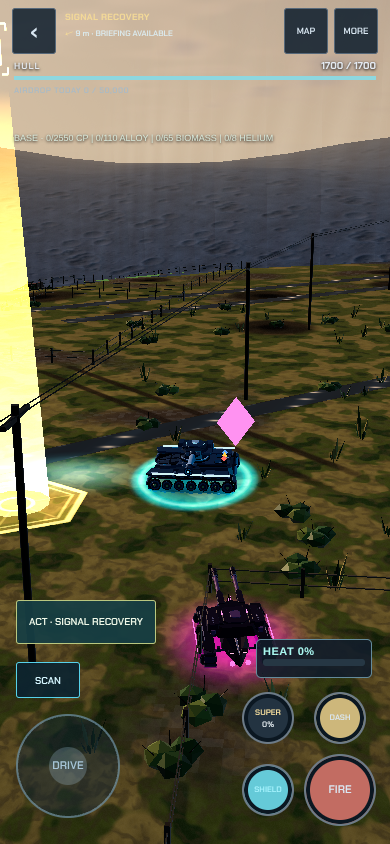
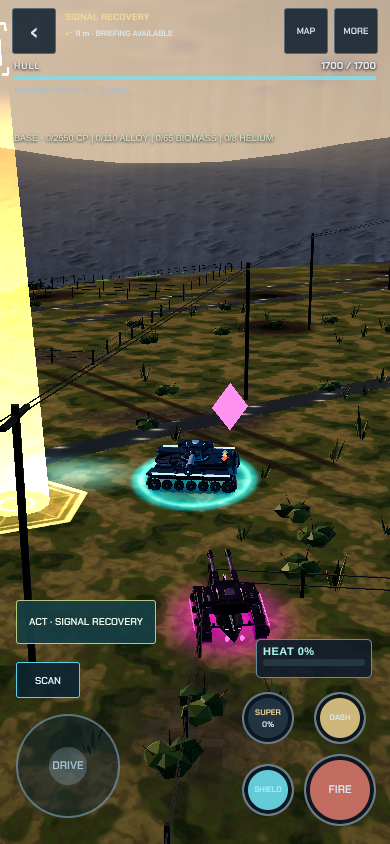
feat(conquest): settler identity on the colony kit — weathered painted, patched materials and warm amber lights (military keeps cyan)
Civilian town and farm buildings, streets and the monorail get settler materials and amber
lighting; the Refuge, Command Bases and the frontier wall keep the military Neon Frontline.
Full settler architecture is queued for session 5 (docs/ROADMAP.md). Captures refreshed.

Claude-Session: https://claude.ai/code/session_014ynx7uupq1wCG5hfVD7SVy

diff --git a/js/conquest/style.js b/js/conquest/style.js
@@ -544,8 +544,13 @@ const billGeo=(r,col,o=0)=>{const X=new Fx();X.keep=true;X.bill(0,0,0,1,r,col,o)
   const dist=l=>l.k==='wall'||l.k==='watch'||l.k==='gate'?'wall':['greenhouse','silo','turbine','solar'].includes(l.k)?'farm':'core';
   const R=(l,x,y,z)=>{const c=Math.cos(l.r),s=Math.sin(l.r);return [l.x+x*c-z*s,y,l.z+x*s+z*c];};
   const barrel=(B,l,y0,len,rad,col,em=0)=>{const [wx,,wz]=R(l,0,0,0);B.add(G.cylC,M(wx,y0,wz,0,-l.r,Math.PI/2,rad,len,rad),col,em);};   // a vault lying along the lot's length
-  for(const l of CO.lots){const D=districts[dist(l)],B=D.m,Dt=D.d,y0=ground(l.x,l.z)-.15,ry=-l.r,at=(x,y,z,rx,sx,sy,sz,ryy=0)=>{const [wx,wy,wz]=R(l,x,y,z);return M(wx,y0+wy,wz,rx,ry+ryy,0,sx,sy,sz);},w=l.w,d=l.d,h=l.h;
+  // Settlers (owner, Nov 8): civilian towns and farms wear weathered, painted, patched materials with warm amber lights; the
+  // military (Refuge, Command Bases, frontier wall) keeps the cyan armoured Neon Frontline. Full settler architecture: session 5.
+  const amberC=lin(0xffa84a),PAINT=[lin(0xa88a5a),lin(0x8a4a32),lin(0x5f8a86),lin(0xc9c2b0),lin(0x7a6a52),lin(0x9a5a3a)],panelM=panel,whiteM=white,roofM=roof,patchC=[lin(0x5a5248),lin(0x8a8070),lin(0x6a3a2a)];
+  for(const l of CO.lots){const settler=dist(l)!=='wall',hh=Math.abs(Math.round(l.x*7+l.z*13)),cy=settler?amberC:K.cyan,panel=settler?PAINT[hh%PAINT.length]:panelM,white=settler?PAINT[(hh+3)%PAINT.length]:whiteM,roof=settler?lin(0x4a3e34):roofM;
+   const D=districts[dist(l)],B=D.m,Dt=D.d,y0=ground(l.x,l.z)-.15,ry=-l.r,at=(x,y,z,rx,sx,sy,sz,ryy=0)=>{const [wx,wy,wz]=R(l,x,y,z);return M(wx,y0+wy,wz,rx,ry+ryy,0,sx,sy,sz);},w=l.w,d=l.d,h=l.h;
    if(l.k!=='pad'&&l.k!=='wall')B.add(G.box,at(0,-2,0,0,w+.6,4,d+.6),conc);                      // foundation plinth
+   if(settler&&['hab','block','shop','hangar','silo'].includes(l.k))Dt.add(G.box,at(w*(.12-(hh%3)*.12),h*(.3+(hh%4)*.08),d/2+.06,0,w*.26,h*.18,.08),patchC[hh%3]);   // scrap-repair patch
    if(l.k==='hab'){B.add(G.hex,at(0,0,0,0,w*.48,h*.7,d*.48),panel);B.add(G.hexF(.8),at(0,h*.7,0,0,w*.48,h*.3,d*.48),roof);B.add(G.hex,at(0,h*.38,0,0,w*.49,.6,d*.49),warm,.75);Dt.add(G.hex,at(0,h*.7,0,0,w*.5,.18,d*.5),cy,1.2);}
    else if(l.k==='block'){B.add(G.box,at(0,h/2,0,0,w,h,d),white);for(let k=1;k<4;k++)B.add(G.box,at(0,h*k/4,0,0,w+.05,.5,d+.05),warm,.7);B.add(G.box,at(0,h+.4,0,0,w*.5,.8,d*.4),roof);for(const sx of [-1,1])Dt.add(G.box,at(sx*w/2,h/2,d/2,0,.2,h,.2),cy,1.2);}
    else if(l.k==='shop'){B.add(G.box,at(0,2,0,0,w,4,d),panel);B.add(G.box,at(0,1.4,d/2,0,w*.86,2.4,.1),warm,.8);B.add(G.box,at(0,3.9,d/2+.9,0,w+.4,.25,2),[mag,cy,lin(0xffb347)][Math.abs(Math.round(l.x+l.z))%3]);Dt.add(G.box,at(0,4.7,d/2+.1,0,w*.55,.8,.15),[cy,mag,warm][Math.abs(Math.round(l.x))%3],1.4);}
@@ -561,7 +566,7 @@ const billGeo=(r,col,o=0)=>{const X=new Fx();X.keep=true;X.bill(0,0,0,1,r,col,o)
    else if(l.k==='gate'){B.add(G.box,at(0,h/2,0,0,w*.5,h,d*.5),wallC);Dt.add(G.box,at(0,h-.5,0,0,w*.55,.4,d*.55),cy,1.5);}
   }
   // roads: dark paved ribbon on the terrain with neon edge strips and dashed lane marks (bridge sections ride the deck)
-  const RB=new Bld(),asphalt=lin(0x24282e),edge=lin(0x30d6ff),dash=lin(0xe8e2c8),dirtC=lin(0x5e4a36),rutC=lin(0x3a2c20),lamps=[];
+  const RB=new Bld(),asphalt=lin(0x24282e),edge=lin(0xffa84a),dash=lin(0xe8e2c8),dirtC=lin(0x5e4a36),rutC=lin(0x3a2c20),lamps=[];
   for(const r of CO.roads){const pts=[];for(let i=1;i<r.pts.length;i++){const [a,b]=[r.pts[i-1],r.pts[i]],L=Math.hypot(b[0]-a[0],b[1]-a[1]),n=Math.max(1,Math.ceil(L/3));for(let k=i===1?0:1;k<=n;k++)pts.push([a[0]+(b[0]-a[0])*k/n,a[1]+(b[1]-a[1])*k/n]);}
    const hw=r.w/2,yAt=(x,z)=>{const dk=Wd.deckAt(x,z);return dk!==null?dk+.06:ground(x,z)+.09;},paved=!!r.p;let run=0;
    for(let i=1;i<pts.length;i++){const [ax,az]=pts[i-1],[bx,bz]=pts[i],L=Math.hypot(bx-ax,bz-az)||1,nx=-(bz-az)/L,nz=(bx-ax)/L,P=(x,z,o)=>[x+nx*o,yAt(x+nx*o,z+nz*o),z+nz*o];run+=L;
@@ -576,7 +581,7 @@ const billGeo=(r,col,o=0)=>{const X=new Fx();X.keep=true;X.bill(0,0,0,1,r,col,o)
   for(const f of CO.fields){const c=Math.cos(f.r),s2=Math.sin(f.r),[cA,cB]=crops[f.c%3],L=(u,v)=>{const x=f.x+u*c-v*s2,z=f.z+u*s2+v*c;return [x,ground(x,z)+.12,z];};
    for(let v=-f.d/2;v<f.d/2;v+=1.6)for(let u=-f.w/2;u<f.w/2;u+=4){const u1=Math.min(u+4,f.w/2);FB.quad(L(u,v),L(u1,v),L(u1,v+.95),L(u,v+.95),cA,0);FB.quad(L(u,v+.95),L(u1,v+.95),L(u1,v+1.6),L(u,v+1.6),cB,0);}}
   // monorail: beam on pylons + the moving train; power line: poles and wires
-  const RL=CO.rail||[],railH=(x,z)=>ground(x,z)+11;if(RL.length>1){for(let i=1;i<RL.length;i++){const [a,b]=[RL[i-1],RL[i]],n=Math.ceil(Math.hypot(b[0]-a[0],b[1]-a[1])/8);for(let k=0;k<n;k++){const x0=a[0]+(b[0]-a[0])*k/n,z0=a[1]+(b[1]-a[1])*k/n,x1=a[0]+(b[0]-a[0])*(k+1)/n,z1=a[1]+(b[1]-a[1])*(k+1)/n;districts.core.m.seg(V3(x0,railH(x0,z0),z0),V3(x1,railH(x1,z1),z1),.9,lin(0x9aa6b2));districts.core.d.seg(V3(x0,railH(x0,z0)+.55,z0),V3(x1,railH(x1,z1)+.55,z1),.12,cy,1.2);}}
+  const RL=CO.rail||[],railH=(x,z)=>ground(x,z)+11;if(RL.length>1){for(let i=1;i<RL.length;i++){const [a,b]=[RL[i-1],RL[i]],n=Math.ceil(Math.hypot(b[0]-a[0],b[1]-a[1])/8);for(let k=0;k<n;k++){const x0=a[0]+(b[0]-a[0])*k/n,z0=a[1]+(b[1]-a[1])*k/n,x1=a[0]+(b[0]-a[0])*(k+1)/n,z1=a[1]+(b[1]-a[1])*(k+1)/n;districts.core.m.seg(V3(x0,railH(x0,z0),z0),V3(x1,railH(x1,z1),z1),.9,lin(0x9aa6b2));districts.core.d.seg(V3(x0,railH(x0,z0)+.55,z0),V3(x1,railH(x1,z1)+.55,z1),.12,lin(0xffa84a),1.1);}}
    for(const [x,z] of CO.railPylons){districts.core.m.add(G.cyl,M(x,ground(x,z)-1,z,0,0,0,.9,12.2,.9),lin(0x7d8894));}}
   const PW=CO.power||[];for(let i=0;i<PW.length;i++){const [x,z]=PW[i],y=ground(x,z);districts.farm.d.add(G.cyl,M(x,y,z,0,0,0,.13,9,.13),lin(0x2e2822));districts.farm.d.add(G.box,M(x,y+8.6,z,0,0,0,2.4,.16,.16),lin(0x2e2822));
    const q=PW[i+1];if(q&&Math.hypot(q[0]-x,q[1]-z)<45){const yq=ground(q[0],q[1]);for(const o of [-1,1])districts.farm.d.seg(V3(x+o,y+8.7,z),V3(q[0]+o,yq+8.7,q[1]),.03,lin(0x222222));}}
